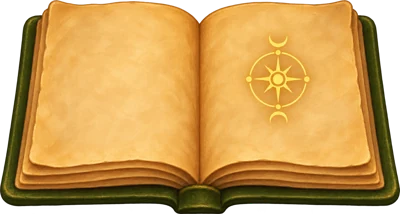
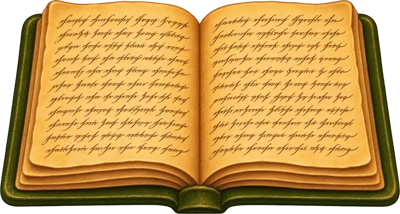
Ink the loading grimoire with cursive runes

diff --git a/src/ui/game.css b/src/ui/game.css
@@ -133,14 +133,10 @@ html{scrollbar-gutter:stable}.game-grid,.game-history{overflow-anchor:none}.game
 .analysis-perspective { display: flex; align-items: center; flex-wrap: wrap; gap: .35em; }
 .analysis-grimoire { position: relative; display: block; width: min(110px, 50vw); filter: drop-shadow(0 3px 4px #37311f44); }
 .analysis-grimoire img { width: 100%; height: auto; display: block; }
-.analysis-spark {
-  position: absolute; left: 62%; top: 5%; width: 16px; height: 16px;
-  background: #f8cc67; clip-path: polygon(50% 0, 61% 39%, 100% 50%, 61% 61%, 50% 100%, 39% 61%, 0 50%, 39% 39%);
-  animation: analysis-spark 2.3s ease-in-out infinite;
+.analysis-grimoire img { animation: analysis-grimoire-glow 3s ease-in-out infinite; }
+@keyframes analysis-grimoire-glow {
+  0%, 38%, 72%, 100% { filter: brightness(1); }
+  49%, 59% { filter: brightness(1.28) drop-shadow(0 0 5px #e9b94a); }
 }
-@keyframes analysis-spark {
-  0%, 100% { transform: scale(.58); opacity: .35; }
-  50% { transform: scale(1.12); opacity: 1; }
-}
-@media (prefers-reduced-motion: reduce) { .analysis-spark { animation: none; } }
+@media (prefers-reduced-motion: reduce) { .analysis-grimoire img { animation: none; } }
 .console-scroll[hidden] { display: none; }

diff --git a/src/ui/MatchAnalysis.tsx b/src/ui/MatchAnalysis.tsx
@@ -106,7 +106,7 @@ function LoadingGrimoire({ budget }: { budget: number }) {
   }, [budget]);
   const label = language === 'en' ? 'Loading…' : 'Caricamento…';
   return <div className="analysis-loading">
-    <span className="analysis-grimoire" aria-hidden="true"><img alt="" src={`${import.meta.env.BASE_URL}assets/analysis-grimoire.webp`}/><span className="analysis-spark"/></span>
+    <span className="analysis-grimoire" aria-hidden="true"><img alt="" src={`${import.meta.env.BASE_URL}assets/analysis-grimoire.webp`}/></span>
     <span role="status">{label}</span><span role="progressbar" aria-label={label} aria-valuemin={0} aria-valuemax={100} aria-valuenow={percent}>{percent}%</span>
   </div>;
 }
